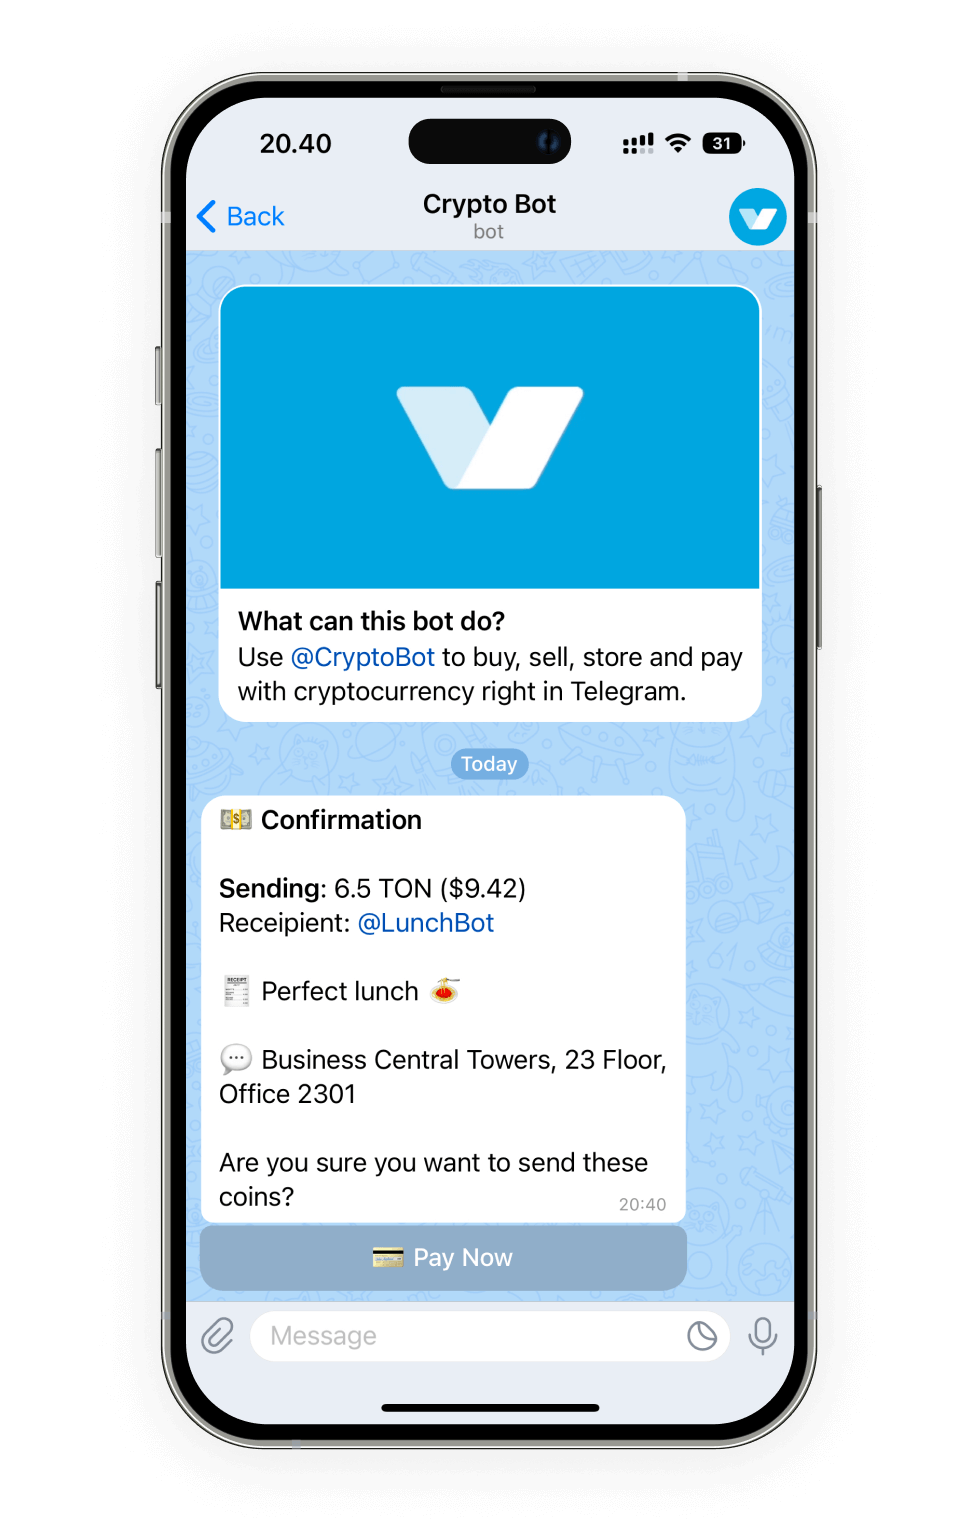
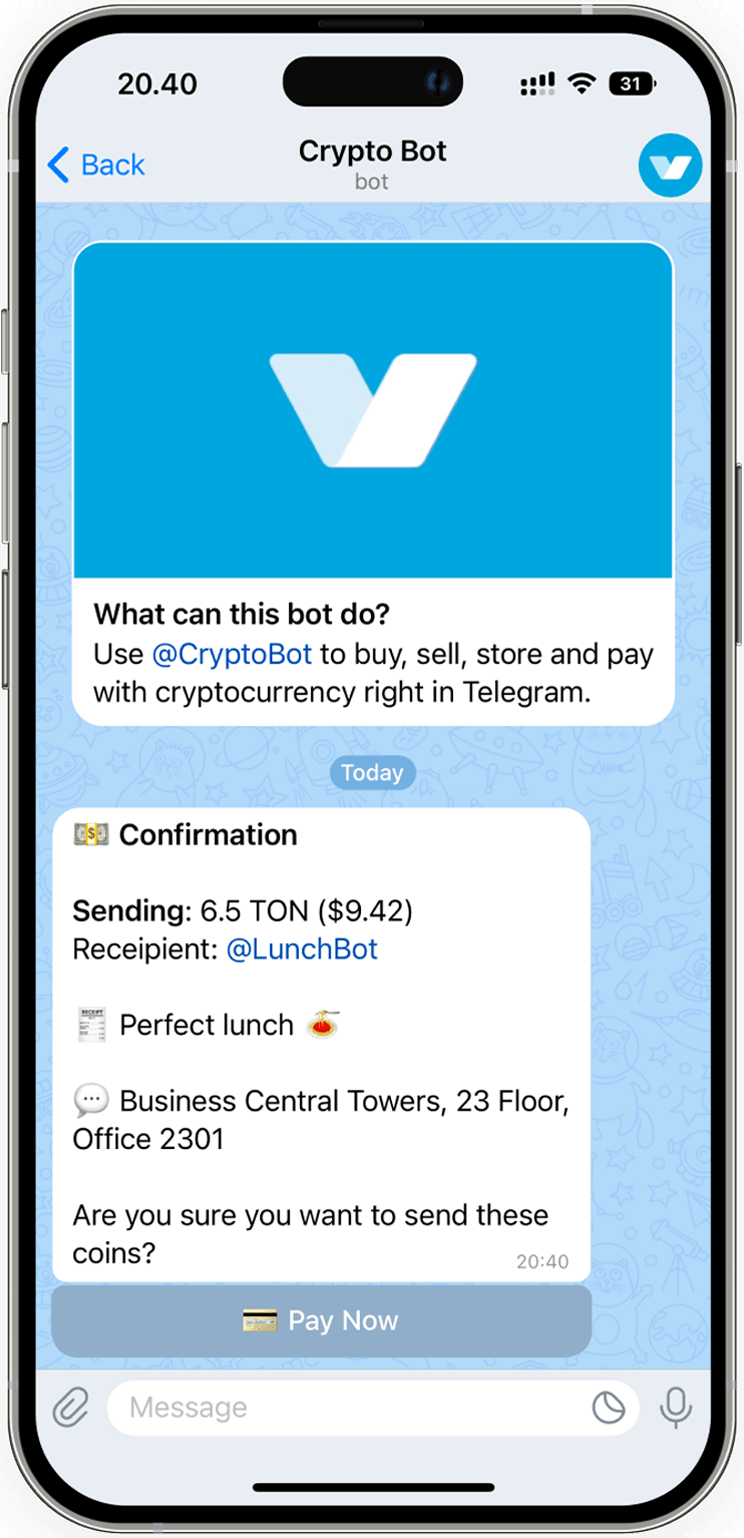
Trim phone images to one size

diff --git a/index.html b/index.html
@@ -44,12 +44,14 @@
 
 			<div class="flex flex-col md:flex-row gap-4">
 				<section class="flex flex-col gap-6">
-					<h1 class="font-semibold text-center lg:text-left text-[46px]">
+					<h1 class="font-semibold text-center lg:text-left text-[46px] 2xl:text-[80px]">
 						Crypto payments for
 						<span class="text-aqua-500">telegram bots</span>
 					</h1>
-					<div class="flex flex-col items-center lg:items-start gap-3 font-normal text-lg text-center">
-						<p>Seamlessly accept crypto payments in your Telegram bots and services.</p>
+					<div class="flex flex-col items-center lg:items-start gap-3 font-normal text-lg 2xl:text-xl text-center">
+						<p class="lg:text-left">
+							Seamlessly accept crypto payments in your Telegram bots and services.
+						</p>
 
 						<button class="py-3 px-8 font-medium text-lg text-white whitespace-nowrap bg-aqua-500 rounded-full">
 							Get started

diff --git a/src/styles/index.css b/src/styles/index.css
@@ -1279,6 +1279,15 @@
 			grid-row-start: 5;
 		}
 
+		/* Gap */
+		.lg\:gap-8 {
+			gap: 2rem; /* 32px */
+		}
+
+		.lg\:gap-14 {
+			gap: 3.5rem/* 56px */;
+		}
+
 		/* Text */
 		.lg\:text-left {
 			text-align: left;
@@ -1294,6 +1303,17 @@
 	@media (min-width: 1440px) {
 		.\32xl\:flex-row {
 			flex-direction: row;
+		}
+
+		/* Text */
+		.\32xl\:text-xl {
+			font-size: 1.25rem; /* 20px */
+			line-height: 1.75rem; /* 28px */
+		}
+
+		.\32xl\:text-\[80px\] {
+			font-size: 5rem; /* 80px */
+			line-height: 5.5rem; /* 88px */
 		}
 	}
 
